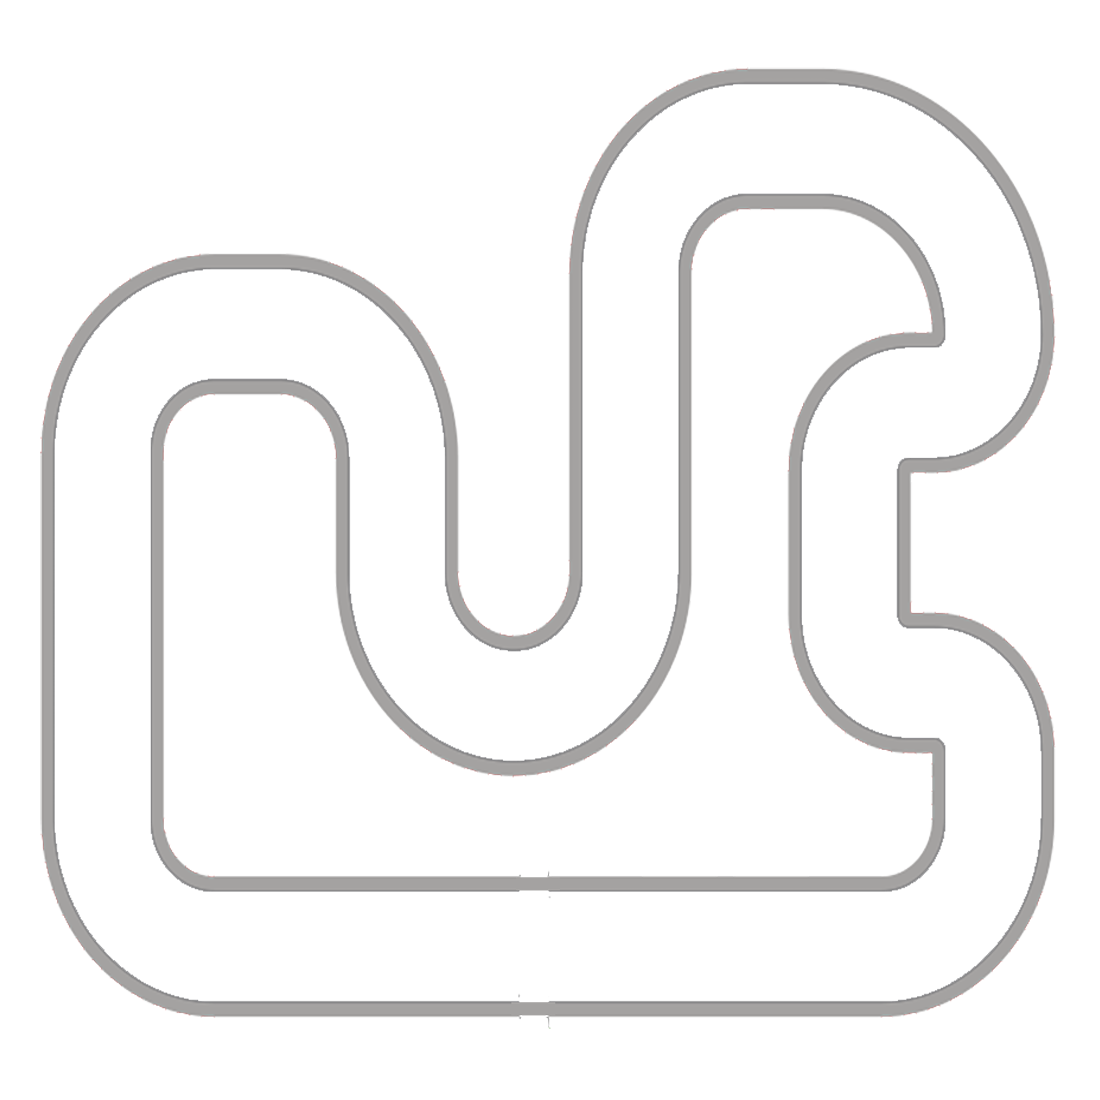
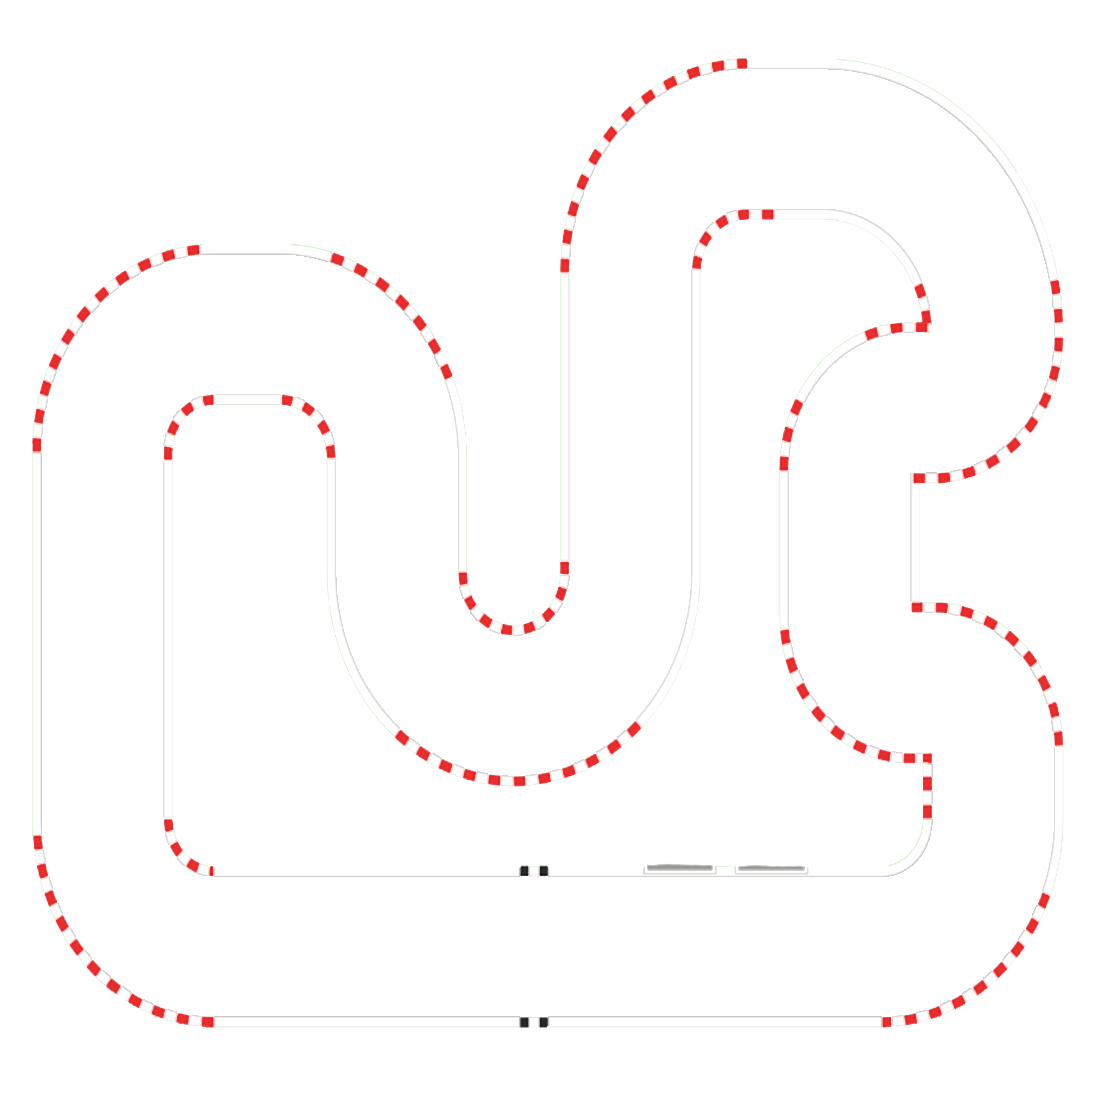
280824

Changed region(s): [[0.0309, 0.0309, 0.9891, 0.9582], [0.1236, 0.1545, 0.8655, 0.8345]]

diff --git a/main.py b/main.py
@@ -1,0 +1,229 @@
+import pygame
+import time
+import math
+from utils import scale_image, blit_rotate_center
+
+# Load images for the game environment and cars
+GRASS = pygame.image.load("imgs/grass.jpg")
+TRACK = pygame.image.load("imgs/track.png")
+TRACK_BORDER = pygame.image.load("imgs/track-border.png")
+
+# Load and config the finish line
+FINISH = pygame.image.load("imgs/finish.png")
+FINISH_MASK = pygame.mask.from_surface(FINISH) # Create the Mask for the collide
+FINISH_POSITION = (517, 862)
+
+# Load the mask
+TRACK_BORDER_MASK = pygame.mask.from_surface(TRACK_BORDER)
+
+# Load and scale car images
+RED_CAR = scale_image(pygame.image.load("imgs/red-car.png"), 0.4)
+PURPLE_CAR = scale_image(pygame.image.load("imgs/purple-car.png"), 0.4)
+
+# Set the width and height of the window based on the track size
+WIDTH, HEIGHT = TRACK.get_width(), TRACK.get_height()
+WIN = pygame.display.set_mode((WIDTH, HEIGHT))
+
+# Set the window caption
+pygame.display.set_caption("Crazy cars!")
+
+# Frames per second setting for game loop
+FPS = 60
+
+PATH = [(871, 972), (964, 908), (1001, 784), (987, 710), (915, 678), (854, 630), (877, 431), (964, 403), (994, 293), (943, 187), (873, 136), (715, 130), (651, 186), (622, 254), (621, 599), (576, 671), (498, 689), (416, 629), (389, 392), (334, 334), (164, 325), (103, 410), (95, 473), (93, 837), (137, 922), (207, 955), (352, 961), (533, 967)]
+# This points have been got with 'if event.type == pygame.MOUSEBUTTONDOWN:...' (see down in code)
+# Making cliks on the track to draw red points to indicate to our car computer its track.
+
+class AbstractCar:
+    # Abstract car class to define basic properties and methods for all cars
+    IMG = None
+    START_POS = (0, 0)
+    def __init__(self, max_vel, rotation_vel):
+        # Initialize car properties such as image, maximum velocity, rotation velocity, position, etc.
+        self.img = self.IMG
+        self.max_vel = max_vel
+        self.vel = 0
+        self.rotation_vel = rotation_vel
+        self.angle = 270
+        self.x, self.y = self.START_POS
+        self.acceleration = 0.2
+
+    def rotate(self, left=False, right=False):
+        # Rotate the car left or right by adjusting its angle
+        if left:
+            self.angle += self.rotation_vel
+        elif right:
+            self.angle -= self.rotation_vel
+    
+    def draw(self, win):
+        # Draw the car on the window, rotated to its current angle
+        blit_rotate_center(win, self.img, (self.x, self.y), self.angle)
+
+    def move_forward(self):
+        # Increase the car's velocity up to its maximum and move it forward
+        self.vel = min(self.vel + self.acceleration, self.max_vel)
+        self.move()
+
+    def move_backward(self):
+        # Decrese the car's velocity down to its minimun and move it Bakward
+        # Of course a backward move in a car is smaller than a forward move (/2)
+        self.vel = max(self.vel - self.acceleration, -self.max_vel/2)
+        self.move()
+
+    def move(self):
+        # Calculate the new position of the car based on its velocity and angle
+        radians = math.radians(self.angle)
+        v_x = self.vel * math.sin(radians)  # Calculate velocity component along x-axis
+        v_y = self.vel * math.cos(radians)  # Calculate velocity component along y-axis
+        
+        # Update the car's position
+        self.y -= v_y
+        self.x -= v_x
+
+    def collide(self, mask, x=0, y=0):
+        # In Pygame, a mask is a black and white representation of an image that
+        # allows for more accurate collision detection. Non-transparent pixels
+        # are considered as part of the mask.
+
+        car_mask = pygame.mask.from_surface((self.img)) #Create a mask for our image(car)
+        
+        offset = (int(self.x - x), int(self.y- y))
+        # The offset(displacement) is the difference in (x, y) coordinates between
+        # the current object and another object with which we want to check the collision.
+        # self.x and self.y represent the coordinates of the current object, while x
+        # and y are the coordinates of the other object.
+        # We use int() to convert the coordinates to integers, since masks work with
+        # integers and not floats.
+        
+        poi = mask.overlap(car_mask, offset)
+        # The overlap method of the mask passed as an argument (mask) is called here.
+        # This method compares the current object's mask (car_mask) with the passed
+        # mask to determine if they overlap, using the offset calculated above.
+        # mask.overlap(car_mask, offset) returns None if there is no overlap between
+        # the masks (i.e. no collision), or a tuple with the coordinates of the
+        # Point of Intersection (POI) if there is a collision.
+        
+        return poi
+        # Return the point where the two masks overlap (if there is collision)
+        # or None if there is no collision.
+
+
+    def reset(self):
+        self.x, self.y = self.START_POS
+        self.angle = 270
+        self.vel = 0
+
+
+class PlayerCar(AbstractCar):
+    # Player car subclass inheriting from AbstractCar
+    IMG = RED_CAR
+    START_POS = (580, 885)  # Initial starting position of the player car
+
+    def reduce_speed(self):
+        # Reduce the car's speed gradually, simulating friction or coasting
+        self.vel = max(self.vel - self.acceleration / 2, 0)
+        self.move()
+
+    def bounce(self):
+        self.vel = -self.vel
+        self.move()
+
+
+class ComputerCar(AbstractCar):
+    IMG = PURPLE_CAR
+    START_POS = (580, 945)
+
+    def __init__(self, max_vel, rotation_vel, path=[]):
+        super().__init__(max_vel, rotation_vel)
+        self.path = path
+        self.current_point = 0
+        self.vel = max_vel
+
+    def draw_points(self, win):
+        for point in self.path:
+            pygame.draw.circle(win, (255, 0, 0), point, 5)
+
+    def draw(self, win):
+        super().draw(win)
+        self.draw_points(win)
+
+def draw(win, images, player_car, computer_car):
+    # Draw all the images (backgrounds, tracks, etc.) onto the window
+    for img, pos in images:
+        win.blit(img, pos)
+
+    # Draw the player car on top of the images
+    player_car.draw(win)
+    computer_car.draw(win)
+    pygame.display.update()  # Update the display to show the new frame
+
+
+def move_player(player_car):
+    keys = pygame.key.get_pressed()  # Check which keys are currently pressed
+    moved = False  # Variable to track if the car has moved
+
+    # Rotate or move the car based on key presses
+    if keys[pygame.K_a]:  # Rotate left if 'A' is pressed
+        player_car.rotate(left=True)
+    if keys[pygame.K_d]:  # Rotate right if 'D' is pressed
+        player_car.rotate(right=True)
+    if keys[pygame.K_w]:  # Move forward if 'W' is pressed
+        moved = True
+        player_car.move_forward()
+    if keys[pygame.K_s]:  # Move forward if 'W' is pressed
+        moved = True
+        player_car.move_backward()
+
+    # If no movement keys are pressed, reduce the car's speed
+    if not moved:
+        player_car.reduce_speed()
+
+
+
+# Main game loop
+run = True
+
+clock = pygame.time.Clock()  # Clock to manage frames per second
+images = [(GRASS, (0, 0)), (TRACK, (0, 0)), (FINISH, FINISH_POSITION)]  # List of images to be drawn each frame
+player_car = PlayerCar(6, 6)  # Create a player car with specific max velocity and rotation velocity
+computer_car = ComputerCar(6, 6, PATH)
+
+
+while run:
+    clock.tick(FPS)  # Ensure the game runs at the specified frames per second
+    
+    draw(WIN, images, player_car, computer_car)  # Draw all game elements each frame
+
+    for event in pygame.event.get():
+        # Check for the QUIT event to stop the game loop
+        if event.type == pygame.QUIT:
+            run = False
+            break
+
+        # # This code is to draw the points ofe the computer car(the PATH=[])
+        #if event.type == pygame.MOUSEBUTTONDOWN:
+        #    pos = pygame.mouse.get_pos()
+        #    computer_car.path.append(pos)
+
+    move_player(player_car)
+
+    if player_car.collide(TRACK_BORDER_MASK) != None:
+        #print("COLLIDE")
+        player_car.bounce()
+
+    finish_poi_collide = player_car.collide(FINISH_MASK, *FINISH_POSITION)
+    if finish_poi_collide != None:
+        #print("FINISH!!!")
+        print(finish_poi_collide) # This way we can see the coordinates when the car across the finish  line
+        if finish_poi_collide[0] == 31: 
+            player_car.bounce()
+            # If coor-x == 3 then bounce!! (in finish line)
+        else:
+            player_car.reset()
+            print("FINISH!!!")
+
+
+print(computer_car.path)
+pygame.quit()  # Quit pygame and close the game window
+
+

diff --git a/utils.py b/utils.py
@@ -1,0 +1,28 @@
+import pygame
+
+def scale_image(img, factor):
+    """
+    Function to scale images in our game.
+    """
+    # Calculate the new size for the image by multiplying the original width and height
+    # by the scaling factor.
+    size = round(img.get_width() * factor), round(img.get_height() * factor)
+    
+    # Return the scaled image using pygame's transform.scale method.
+    return pygame.transform.scale(img, size)
+
+def blit_rotate_center(win, image, top_Left, angle):
+    # Rotate the original image by the given angle.
+    rotated_image = pygame.transform.rotate(image, angle)
+
+    # When we rotate the original image, the size of the image's rectangle can change
+    # based on how it's rotated around the top left corner. To keep the rotation 
+    # centered on the image's initial center, we adjust its rectangle.
+    # Get a new rectangle for the rotated image. The new rectangle is positioned so
+    # that its center matches the center of the original image's rectangle.
+    new_rect = rotated_image.get_rect(center=image.get_rect(topleft=top_Left).center)
+
+    # Draw the rotated image onto the window (win) at the new top-left position
+    # of the adjusted rectangle.
+    win.blit(rotated_image, new_rect.topleft)
+
